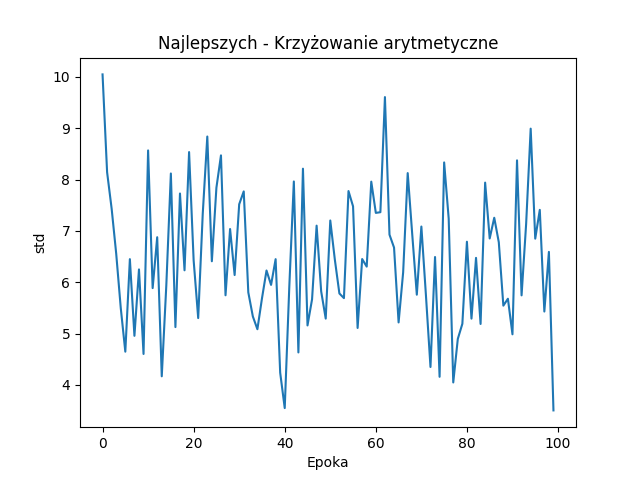
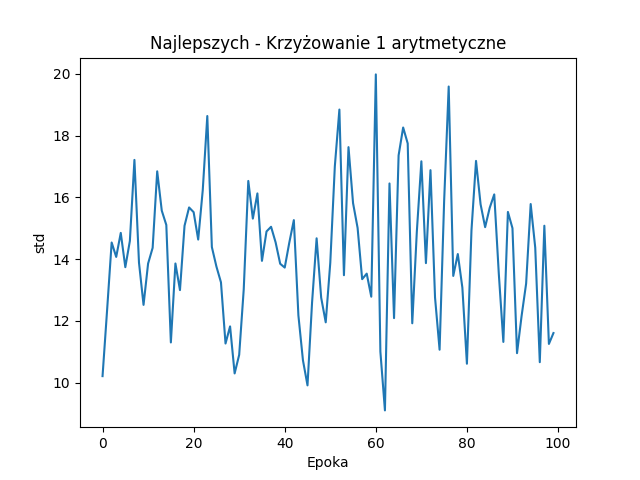
added range

diff --git a/main.py b/main.py
@@ -20,8 +20,13 @@ class MainWindow(QWidget):
     tournament_size = 1
     mean = 50
     sigma = 5
+    start_value = -5  # Dodajemy deklarację atrybutu start_value
+    end_value = 5
+   
+  
 
     selectionName = SelectionMechods.BEST_STRING.value
+     
     crossingName = CrossingMechods.SINGLE_POINT_ARITHMETIC_STRING.value
     mutationName = MutationMechods.UNIFORM_STRING.value
     inversionName = InversionMethods.TWO_POINT_STRING.value
@@ -47,6 +52,8 @@ class MainWindow(QWidget):
                             number_of_dimensions=self.numberOfDimensions,
                             mean=self.mean,
                             sigma=self.sigma,
+                            start_value = self.start_value,
+                            end_value = self.end_value,
                             func=self.func,
                             title=f'{self.selectionName} - {self.crossingName}',
                             direction=self.minmax,
@@ -142,6 +149,14 @@ class MainWindow(QWidget):
         self.numberOfDimensions = val
         self.dimensionsSizeLabel.setText(f'Liczba wymiarów {self.numberOfDimensions}')
 
+    def set_start_value(self,val):
+        self.start_value = val
+        self.start_value_label.setText(f'Początkowy zakres: {self.start_value}')
+
+    def set_end_value(self,val):
+        self.end_value = val
+        self.end_value_label.setText(f'Końcowy zakres: {self.end_value}')
+
     def set_number_of_parents(self, val):
         self.numberOfParents = val
         self.numberOfParentsLabel.setText(f'Liczba osobników selekcji {self.numberOfParents}')
@@ -190,14 +205,23 @@ class MainWindow(QWidget):
     def set_function(self):
         if self.rastrigin_radio.isChecked():
             self.func = FunctionsOptions.RASTRIGIN
+            self.start_value = -5
+            self.end_value = 5
+            
         else:
             self.func = FunctionsOptions.SCHWEFEK
+            self.start_value = -500
+            self.end_value = 500
+        
+        self.start_value_label.setText(f'Początkowy zakres: {self.start_value}')
+        self.end_value_label.setText(f'Końcowy zakres: {self.end_value}')
 
     def __init__(self):
         super().__init__()
 
         self.setWindowTitle("OE Proj 4. Wieczorek, Piwko, Ratowska")
         layout_items = []
+
 
         function_layout = QHBoxLayout()
         function_layout.setContentsMargins(0, 0, 0, 0)
@@ -263,6 +287,22 @@ class MainWindow(QWidget):
         num_of_parents_slider = makeSlider(10, 1000, self.numberOfParents)
         num_of_parents_slider.valueChanged.connect(self.set_number_of_parents)
         layout_items.append(num_of_parents_slider)
+
+        #Range
+        self.start_value_label = QLabel(f'Początkowy zakres: {self.start_value}')
+        layout_items.append(self.start_value_label)
+
+        start_value_slider = makeSlider(-20 if self.rastrigin_radio.isChecked() else -1000, 20 if self.rastrigin_radio.isChecked() else 1000, self.start_value)
+        start_value_slider.valueChanged.connect(self.set_start_value)
+        layout_items.append(start_value_slider)
+
+        self.end_value_label = QLabel(f'Końcowy zakres: {self.end_value}')
+        layout_items.append(self.end_value_label)
+
+        end_value_slider = makeSlider(-20 if self.rastrigin_radio.isChecked() else -1000, 20 if self.rastrigin_radio.isChecked() else 1000, self.end_value)
+        end_value_slider.valueChanged.connect(self.set_end_value)
+        layout_items.append(end_value_slider)
+
 
         # Epoch
         self.numberOfEpochLabel = QLabel(f'Liczba epok {self.numberOfEpoch}')

diff --git a/Helpers/mutationMethods.py b/Helpers/mutationMethods.py
@@ -9,16 +9,23 @@ class MutationMethod:
         pass
 
 class UniformMutation(MutationMethod):
-    def __init__(self, number_of_dimensions):
+    def __init__(self, number_of_dimensions, start_value, end_value):
         self.number_of_dimensions = number_of_dimensions
+        self.start_value = start_value
+        self.end_value = end_value
 
     def mutate(self, individual, mutation_rate):
         mutated_individual = individual.copy()
+        
         for i in range(self.number_of_dimensions):
             if random.random() < mutation_rate:
-                mutation_value = random.uniform(-1, 1) 
-                mutated_individual[i] += mutation_value
-                mutated_individual[i] = max(min(mutated_individual[i], 1), -1) 
+                mutated_random_index = random.randint(0, len(mutated_individual) - 1)
+                mutation_value = random.uniform(self.start_value, self.end_value) 
+                mutated_individual[mutated_random_index] = mutation_value
+                mutated_individual[i] = max(min(mutated_individual[i], self.start_value), self.end_value) 
+
+            else:
+                mutated_individual[i] = individual[i]
         return mutated_individual
 
 class GaussMutation(MutationMethod):
@@ -33,4 +40,7 @@ class GaussMutation(MutationMethod):
             if random.random() < mutation_rate:
                 mutation_value = random.gauss(self.mean, self.sigma)
                 mutated_individual[i] += mutation_value
+                mutated_individual[i] = max(min(mutated_individual[i], self.start_value), self.end_value)
+            else:
+                mutated_individual[i] = individual[i]
         return mutated_individual

diff --git a/Helpers/lern.py b/Helpers/lern.py
@@ -40,6 +40,8 @@ class Model:
                  number_of_dimensions: int,
                  mean : float,
                  sigma: float,
+                 start_value: float,
+                 end_value: float,
                  func: FunctionsOptions,
                  title,
                  direction: MinMax,
@@ -62,6 +64,8 @@ class Model:
         self.direction = direction
         self.mean = mean
         self.sigma = sigma
+        self.start_value = start_value
+        self.end_value = end_value
 
         self.func = rastrigin(number_of_dimensions) if func == FunctionsOptions.RASTRIGIN else schwefel(
             number_of_dimensions)
@@ -96,7 +100,7 @@ class Model:
                 self.crossing_function = SimpleCrossover(0.2).crossover
         match mutation_function:
             case MutationMechods.UNIFORM:
-                self.mutation_function = UniformMutation(number_of_dimensions).mutate
+                self.mutation_function = UniformMutation(number_of_dimensions, start_value, end_value).mutate
             case MutationMechods.GAUSS:
                 self.mutation_function = GaussMutation(number_of_dimensions, mean, sigma).mutate
         match inversion_function:
